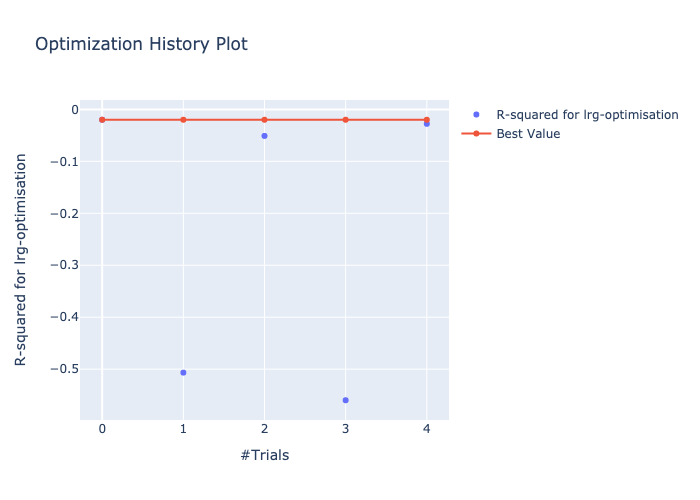
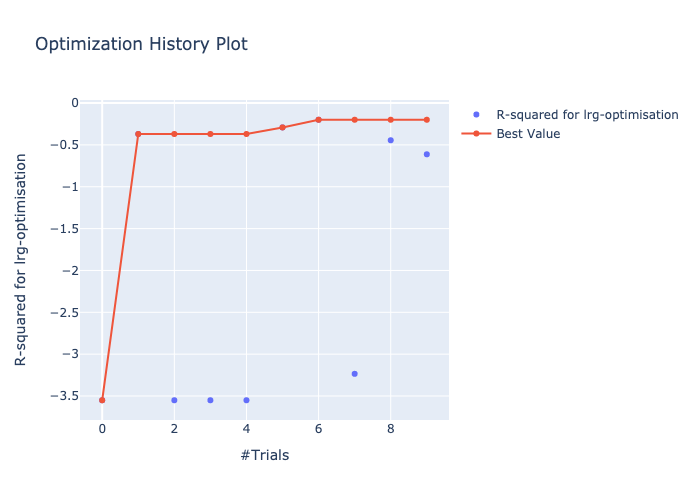
Adapted hp_optim search script

diff --git a/models/deep_set/hp_optim.py b/models/deep_set/hp_optim.py
@@ -1,5 +1,6 @@
 import argparse
-import pickle
+import math
+import os
 
 import numpy as np
 import optuna
@@ -9,9 +10,8 @@ from sklearn import metrics
 from torch import nn, optim
 from torch.utils.data import DataLoader
 
-
 from models import VarMultiSetNet
-from util import get_dataset, get_mask
+from util import get_mask, get_full_dataset
 
 device = 'cuda:0' if torch.cuda.is_available() else 'cpu:0'
 num_workers = 0 if device == 'cpu:0' else 8
@@ -20,12 +20,15 @@ num_workers = 0 if device == 'cpu:0' else 8
 def main():
     parser = argparse.ArgumentParser(description='MultiSetSequence DeepSet-Network - HyperParameter Tuning',
                                      formatter_class=argparse.ArgumentDefaultsHelpFormatter)
-    parser.add_argument('-d', '--path_to_data', default='data/multiset.pickle', metavar='', type=str,
-                        help='path to the data directory')
+    """parser.add_argument('-d', '--path_to_data', default='data/multiset.pickle', metavar='', type=str,
+                        help='path to the data directory')"""
     parser.add_argument('-n', '--num_pixels', default=1500, metavar='', type=int, help='number of training examples')
-    parser.add_argument('-c', '--max_ccds', default=30, metavar='', type=int,
-                        help='Maximum set lengths for individual CCDs')
-    parser.add_argument('-g', '--gal_type', default='lrg', metavar='', type=str, help='Galaxy Type to optimise model for')
+    """parser.add_argument('-c', '--max_ccds', default=30, metavar='', type=int,
+                        help='Maximum set lengths for individual CCDs')"""
+    parser.add_argument('-a', '--area', default='north', metavar='', type=str,
+                        help='The area of the sky that should be trained on')
+    parser.add_argument('-g', '--gal_type', default='lrg', metavar='', type=str,
+                        help='Galaxy Type to optimise model for')
     parser.add_argument('-t', '--trials', default=200, metavar='', type=int, help='number of trials to tune HP for')
 
     args = vars(parser.parse_args())
@@ -57,27 +60,84 @@ def main():
     for key, value in trial.params.items():
         print("    {}: {}".format(key, value))
 
-    #fig1 = optuna.visualization.plot_optimization_history(study, target_name=f'R-squared for {gal}-optimisation ')
-    #fig1.write_image(f"dee/hp_search_{gal}.png")
+    fig1 = optuna.visualization.plot_optimization_history(study, target_name=f'R-squared for {gal}-optimisation ')
+    fig1.write_image(f"logs_figs/{area}/hp_search_{gal}.png")
+
+    if device == 'cpu:0':
+        model = torch.load(f"trained_models/{area}/{gal}/{trial.number}.pt",
+                           map_location=torch.device('cpu'))
+    else:
+        model = torch.load(f"trained_models/{area}/{gal}/{trial.number}.pt")
+
+    delete_models()
+
+    testloader = torch.utils.data.DataLoader(testdata, batch_size=128, shuffle=False)
+
+    model.eval()
+    y_pred = np.array([])
+    y_gold = np.array([])
+
+    with torch.no_grad():
+
+        for i, (X1, X2, labels, set_sizes) in enumerate(testloader):
+            # Extract inputs and associated labels from dataloader batch
+            X1 = X1.to(device)
+
+            X2 = X2.to(device)
+
+            labels = labels.to(device)
+
+            set_sizes = set_sizes.to(device)
+
+            mask = get_mask(set_sizes, X1.shape[2])
+            # Predict outputs (forward pass)
+
+            outputs = model(X1, X2, mask=mask)
+            # Predict outputs (forward pass)
+            # Get predictions and append to label array + count number of correct and total
+            y_pred = np.append(y_pred, outputs.cpu().detach().numpy())
+            y_gold = np.append(y_gold, labels.cpu().detach().numpy())
+
+        r2 = metrics.r2_score(y_gold, y_pred)
+        rmse = math.sqrt(metrics.mean_squared_error(y_gold, y_pred))
+
+        print()
+        print("Test Set - R-squared: ", r2)
+        print("Test Set - RMSE: ", rmse)
+
+    torch.save(model, f"trained_models/{area}/{gal}/{r2}.pt")
+
+
+def delete_models():
+    for model in os.listdir(f"trained_models/{area}/{gal}"):
+        os.remove(f"trained_models/{area}/{gal}/{model}")
 
 
 def parse_command_line_args(args):
-    global gal, num_pixels, path_to_data, max_set_len, traindata, valdata, features
+    global gal, area, num_pixels, max_set_len, traindata, valdata, testdata, features
     num_pixels = args['num_pixels']
-    path_to_data = args['path_to_data']
-    max_set_len = args['max_ccds']
+    # path_to_data = args['path_to_data']
+    area = args['area']
+    if area == "north":
+        max_set_len = 30
+    elif area == "south":
+        max_set_len = 25
+    else:
+        max_set_len = 50
     gal = args['gal_type']
-    traindata, valdata = get_dataset(num_pixels=num_pixels, max_set_len=max_set_len, gal=gal, path_to_data=path_to_data)
+    traindata, valdata, testdata = get_full_dataset(num_pixels=num_pixels, max_set_len=max_set_len, gal=gal, area=area)
     features = traindata.num_features
 
 
 def print_session_stats(args):
     print('++++++++ Session Characteristics +++++++')
     print()
+    print(f"Area: {area}")
     print(f"Gal Type: {gal}")
-    print(f"Training Samples: {traindata.num_pixels}")
-    print(f"Validation Samples: {valdata.num_pixels}")
-    print(f"Maximum Set Lengths: {max_set_len}")
+    print(f"Training Set: {traindata.num_pixels}")
+    print(f"Validation Set: {valdata.num_pixels}")
+    print(f"Test Samples: {testdata.num_pixels}")
+    print(f"Number of features: {features}")
     print(f"Device: {device}")
     print(f"Number of Workers: {num_workers}")
     print(f"Number of Trials: {args['trials']}")
@@ -90,19 +150,17 @@ def define_model(trial):
 
     fe_layers = []
 
-    in_features = features # --> make a function argument later
+    in_features = features  # --> make a function argument later
 
     for i in range(n_layers_fe):
-        out_features = trial.suggest_int("fe_n_units_l{}".format(i), 32, 400) # ToDo Larger --> experiment
+        out_features = trial.suggest_int("fe_n_units_l{}".format(i), 8, 16)
         fe_layers.append(nn.Linear(in_features, out_features))
         fe_layers.append(nn.ReLU())
-        #if n_layers_fe // 2 == i:
-        p = trial.suggest_float("fe_dropout_l{}".format(i), 0.0, 0.5) # Experiment with more dropout
+        # if n_layers_fe // 2 == i:
+        p = trial.suggest_float("fe_dropout_l{}".format(i), 0.0, 0.5)  # Experiment with more dropout
         fe_layers.append(nn.Dropout(p))
 
         in_features = out_features
-
-
 
     # Getting Output Layer for FE that is then fed into Invariant Layer
     med_layer = trial.suggest_int("n_units_l{}".format('(Invariant)'), 16, 64)
@@ -115,10 +173,10 @@ def define_model(trial):
     in_features = 66
 
     for i in range(n_layers_mlp):
-        out_features = trial.suggest_int("mlp_n_units_l{}".format(i), 32, 400)
+        out_features = trial.suggest_int("mlp_n_units_l{}".format(i), 8, 16)
         mlp_layers.append(nn.Linear(in_features, out_features))
         mlp_layers.append(nn.ReLU())
-        #if n_layers_mlp // 2 == i:
+        # if n_layers_mlp // 2 == i:
         p = trial.suggest_float("mlp_dropout_l{}".format(i), 0.0, 0.5)
         mlp_layers.append(nn.Dropout(p))
 
@@ -134,37 +192,32 @@ def define_model(trial):
 
 def objective(trial):
     model = define_model(trial).to(device)
-    print(f"Trial Id: {trial.number} | Model params: {sum(p.numel() for p in model.parameters() if p.requires_grad)} | Timestamp: {trial.datetime_start}")
-
-
-
+    print()
+    print(
+        f"Trial Id: {trial.number} | Model params: {sum(p.numel() for p in model.parameters() if p.requires_grad)} | Timestamp: {trial.datetime_start}")
     print()
     lr = trial.suggest_float("lr", 1e-5, 1e-2, log=True)
     optimiser = optim.Adam(model.parameters(), lr=lr)
     criterion_name = trial.suggest_categorical("criterion", ["MSELoss", "L1Loss"])
     criterion = getattr(nn, criterion_name)()
 
-    batch_size = trial.suggest_categorical("batch_size", [16,32,128, 256])
+    batch_size = 4  # trial.suggest_categorical("batch_size", [16,32,128, 256])
 
     drop_last = True if (len(valdata.input) > batch_size) else False
-    no_epochs = trial.suggest_int("no_epochs", 30, 300) # --> Get rid of it , Early stopping ToDo
+    no_epochs = trial.suggest_int("no_epochs", 4, 10)
 
     trainloader = torch.utils.data.DataLoader(traindata, batch_size=batch_size, shuffle=True,
                                               num_workers=num_workers, drop_last=drop_last)
 
     valloader = torch.utils.data.DataLoader(valdata, batch_size=batch_size, shuffle=False, drop_last=False)
 
-    mse, r2 = 0, 0
-
-
+    rmse, r2 = 0, 0
 
     for epoch in range(no_epochs):
 
         model.train()
 
         for i, (X1, X2, labels, set_sizes) in enumerate(trainloader):
-
-
             # Extract inputs and associated labels from dataloader batch
             X1 = X1.to(device)
 
@@ -177,7 +230,6 @@ def objective(trial):
             mask = get_mask(set_sizes, X1.shape[2])
             # Predict outputs (forward pass)
 
-
             predictions = model(X1, X2, mask=mask)
 
             # Zero-out the gradients before backward pass (pytorch stores the gradients)
@@ -186,7 +238,6 @@ def objective(trial):
 
             # Compute Loss
             loss = criterion(predictions, labels)
-
 
             # Backpropagation
             loss.backward()
@@ -220,8 +271,10 @@ def objective(trial):
                 y_gold = np.append(y_gold, labels.cpu().detach().numpy())
 
         try:
-            r2 =  metrics.r2_score(y_gold, y_pred)
-            mse = metrics.mean_squared_error(y_gold, y_pred)
+            r2 = metrics.r2_score(y_gold, y_pred)
+            rmse = math.sqrt(metrics.mean_squared_error(y_gold, y_pred))
+            print("epoch", epoch, r2, rmse)
+
         except:
             print("++++++++++++++++++++")
             print("        NaN         ")
@@ -235,14 +288,10 @@ def objective(trial):
         if trial.should_prune():
             raise optuna.exceptions.TrialPruned()
 
-
-    #torch.save(model, "rer/{}.pt".format(trial.number))
+        torch.save(model, f"trained_models/{area}/{gal}/{trial.number}.pt")
 
     return r2
 
 
-
-
 if __name__ == "__main__":
     main()
-

diff --git a/models/deep_set/util.py b/models/deep_set/util.py
@@ -70,6 +70,7 @@ def get_dataset(num_pixels, max_set_len,gal, path_to_data='data/multiset.pickle'
 
 
 def get_full_dataset(area, num_pixels, max_set_len, gal):
+    print("Starting Dataset Loading")
     with open(f'data/{area}/{area}.pickle', 'rb') as f:
         trainset = pickle.load(f)
         f.close()
@@ -77,15 +78,18 @@ def get_full_dataset(area, num_pixels, max_set_len, gal):
         testset = pickle.load(f)
         f.close()
 
+    print("Finished Dataset Loading")
+
+
     df_train = pd.DataFrame.from_dict(trainset, orient='index')
     df_train, df_val = train_test_split(df_train, test_size=0.2, random_state=666, shuffle=True)
 
     df_test = pd.DataFrame.from_dict(testset, orient='index')
 
     num = num_pixels
-    if num > (len(df_train) + len(df_val) + len(df_test)):
-        num = len(df_train) + len(df_val) + len(df_test)
-    traindata = MultiSetSequence(dict=df_train.to_dict(orient='index'), num_pixels=round(num * 0.6),
+    if num > (len(df_train) + len(df_val)):
+        num = len(df_train) + len(df_val)
+    traindata = MultiSetSequence(dict=df_train.to_dict(orient='index'), num_pixels=round(num * 0.8),
                                  max_ccds=max_set_len,num_features=6)
     traindata.set_targets(gal_type=gal)
 
@@ -93,9 +97,10 @@ def get_full_dataset(area, num_pixels, max_set_len, gal):
                                  max_ccds=max_set_len, num_features=6)
     valdata.set_targets(gal_type=gal)
 
-    testdata = MultiSetSequence(dict=df_test.to_dict(orient='index'), num_pixels=round(num * 0.2),
+    testdata = MultiSetSequence(dict=df_test.to_dict(orient='index'), num_pixels=len(df_test),
                                max_ccds=max_set_len, num_features=6)
     testdata.set_targets(gal_type=gal)
 
+    print("Finished Multiset setup")
 
     return traindata, valdata, testdata

diff --git a/models/neural_network/hp_optim.py b/models/neural_network/hp_optim.py
@@ -158,7 +158,7 @@ def objective(trial):
     batch_size = trial.suggest_categorical("batch_size", [16, 32, 128, 256])
 
     drop_last = True if (len(valdata.input) > batch_size) else False
-    no_epochs = trial.suggest_int("no_epochs", 40, 100)
+    no_epochs = trial.suggest_int("no_epochs", 40, 200)
 
     trainloader = torch.utils.data.DataLoader(traindata, batch_size=batch_size, shuffle=True,
                                               num_workers=num_workers, drop_last=drop_last)
